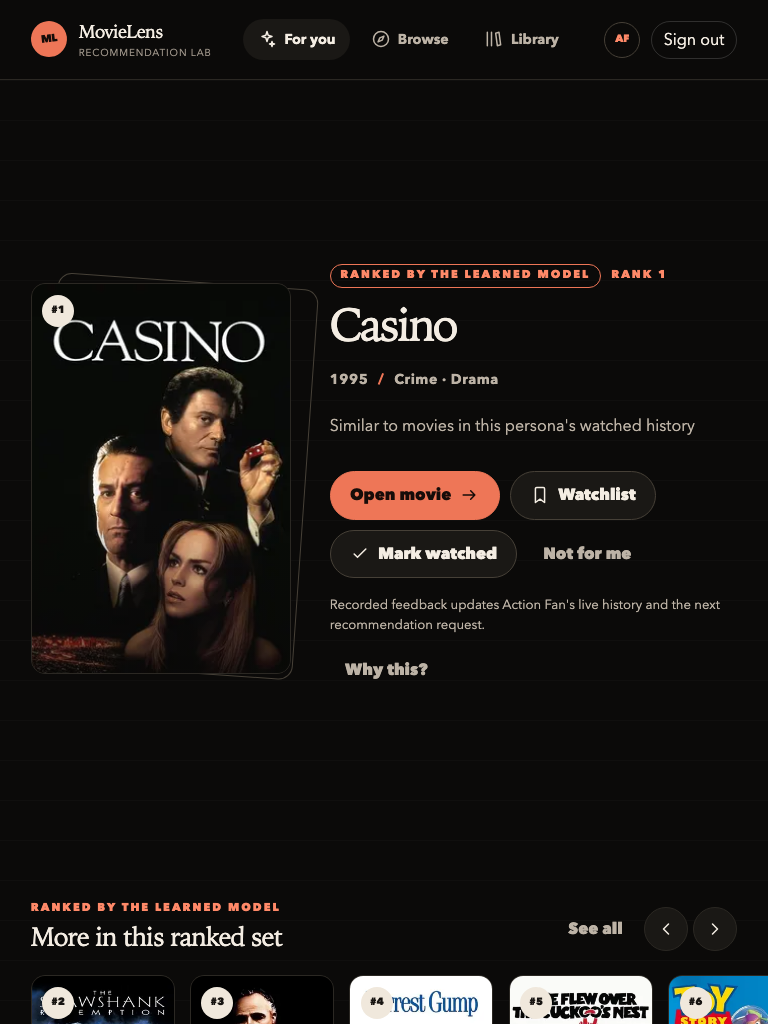
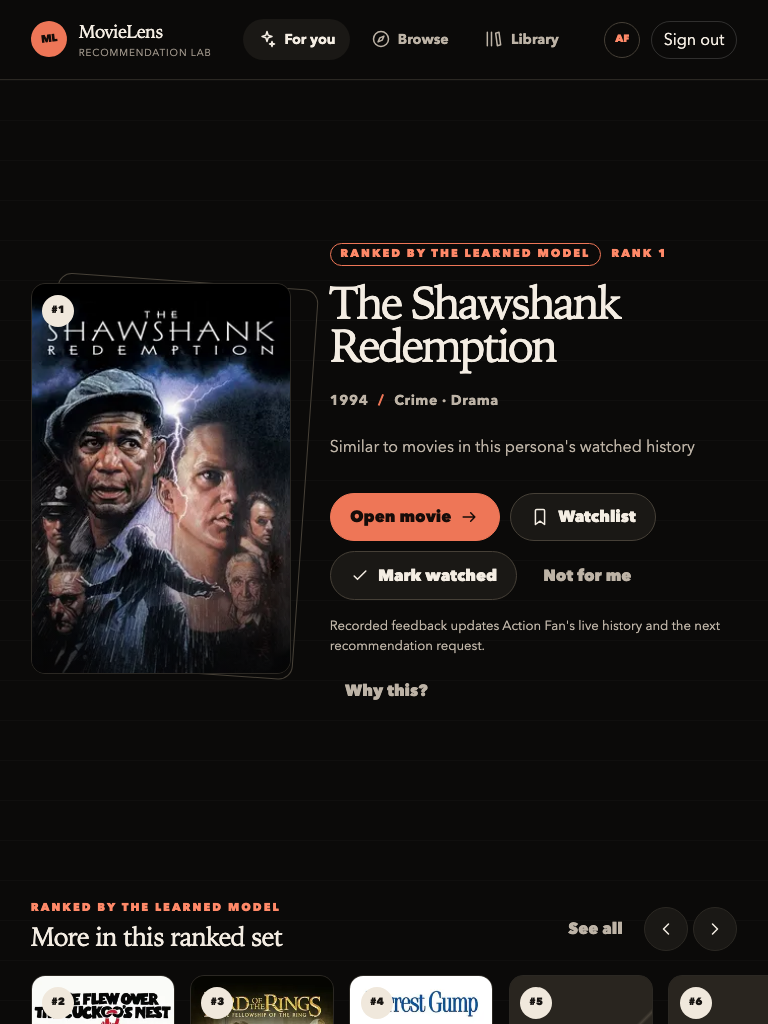
docs(web): re-verify the gate against main after the seed fix, and correct it
PR #64 merged while this branch was in review. It changed which titles every
persona is served and when `learned` may be reported, so a gate re-run that
only described this branch's own base would have been describing a system that
no longer exists. Section 10 was produced a second time against a throwaway
tree combining `origin/main` with this branch's `web/` — the journeys pass
twice, the timing gate passes, and every verdict is unaffected, because the
journey asserts copy against the response rather than against a constant.

The committed evidence is recaptured from that second stack and labelled as
such. Capturing on this branch's base would have committed pictures of
recommendations `main` no longer serves.

One correction, which is the reason for re-running rather than just re-reading.
The performance section attributed Discover's ~380 ms LCP to the warm persona's
top recommendation having no artwork — the existing N1 finding. That is wrong.
and the timing are unchanged across it: 380 ms without a poster, 384 ms with
one. What is measured is that the LCP element is a hydration-time status line
rather than any image; why the poster never becomes a candidate on this route
is now recorded as open rather than as answered. The budget is 2500 ms and both
measurements clear it more than sixfold, so nothing here gates the cutover.

N2 is resolved by #64 and N1 is substantially improved by it without the
[…]

diff --git a/docs/frontend/finish-gate-review.md b/docs/frontend/finish-gate-review.md
@@ -644,19 +644,32 @@ the host.
 | `PLAYWRIGHT_BASE_URL=http://localhost:3001 npm run test:perf` | 5 tests, pass ×3, [numbers below](#107-performance) |
 | `MOVIELENS_DEMO_URL=http://localhost:3001 npm run evidence:bundle7d` | 10 captures, [`evidence/bundle-7d/`](evidence/bundle-7d/README.md) |
 
-Seeded state at capture time, read from the API in the browser's own session —
-unchanged from the 7A run, which is what makes the two evidence sets
-comparable:
+Everything above was run twice over, against two stacks, because `main` moved
+under this branch while it was in review — see
+[10.10](#1010-verified-against-main-after-pr-64). Seeded state at capture time,
+read from the API in the browser's own session, on the second of them:
 
 ```json
 {"name":"item-item-cosine+lightgbm","learned":true,"positive_signal_count":8,
- "threshold":5,"reason":"learned-two-stage: item-item-cosine retrieval over 0
+ "threshold":5,"reason":"learned-two-stage: item-item-cosine retrieval over 8
  positive seeds, ranked by demo-lgbm-v1","score_scale":"lightgbm-rank-score",
  "filter_policy":"watched-and-dismissed-excluded-v1","excluded_count":8}
 ```
 
-CI has not run this branch at the time of writing. Everything above is local;
-the CI columns are what the PR's checks will fill in.
+That is [PR #64](https://github.com/kudratsingh/MovieLens-RecSys/pull/64)
+visible in the response: `over 8 positive seeds` where the 7A run and this
+branch's own first run both read `over 0 positive seeds`. It resolves
+[N2](#n2-learned-serving-reports-zero-positive-seeds), and it changes which
+titles every persona is served — which is why the committed evidence was
+recaptured against it.
+
+**CI on this branch: all eight checks pass** —
+[run 32530254885](https://github.com/kudratsingh/MovieLens-RecSys/actions/runs/32530254885):
+`frontend` (the visual and accessibility gate, including the front door added
+below), `browser-auth-e2e` (the service-backed journey and 7b's browser
+timing), `demo-compose`, `feature-parity`, `lint`, `synthetic-load-smoke`,
+`tenant-isolation`, and `test`. That run is of the branch as pushed, before
+#64.
 
 ### 10.3 Blocking items
 
@@ -730,7 +743,7 @@ Protocol unchanged: 390×844, first stable render, three questions.
 
 | Question | Answer |
 |---|---|
-| What is this? | A movie recommender. A poster, `Casino`, `1995 / Crime · Drama`, and one line of reason. |
+| What is this? | A movie recommender. A poster, `The Shawshank Redemption`, `1994 / Crime · Drama`, and one line of reason. |
 | Is it for you? | Yes — `Similar to movies in this persona's watched history`, with the persona named in the shell separately from the signed-in actor. |
 | What should you do first? | `Open movie`, the one filled button on the screen. |
 
@@ -759,28 +772,41 @@ throttle), three runs, all passing. Representative run:
 
 Discover's LCP moved from the 120 ms recorded in [§5](#performance-gate--pass-carried-from-7b)
 to a reproducible 380–396 ms, and that deserved an explanation rather than a
-shrug. It is not the cutover. Measured directly, the route emits two LCP
-candidates for the warm persona: the server-rendered `h1` at 52 ms — which at
-that moment still holds the placeholder `Finding a strong first pick…` — and
-then the route status line at 376 ms, which only exists after hydration and is
-larger. The primary movie's poster never becomes a candidate **because that
-recommendation has no artwork**, which is exactly
-[N1](#n1-the-first-learned-recommendation-has-no-poster). Loading the same
-route for Cold Start, whose top pick does have a poster, gives an `IMG` LCP
-element at 88 ms.
+shrug.
 
-So N1 is not only a cosmetic finding: on the warm persona it moves the LCP
-element off the image and onto a hydration-time paragraph, which makes the
-number bimodal depending on catalog coverage. The enforced budget is 2500 ms
-and both modes clear it by a wide margin, so this is recorded rather than
-gating. Ruled out along the way: the footer link added to the shell is not
-prefetched (measured — zero `/legacy` requests during the measurement) and is
-below the fold, so it is not an LCP candidate.
+**What is measured.** The route emits two LCP candidates for the warm persona:
+the server-rendered `h1` at ~72 ms — which at that moment still holds the
+placeholder `Finding a strong first pick…` — and then the route status line at
+~380 ms, which only exists after hydration and is the larger of the two
+(12617 px² against 10980). The primary movie's poster is never among the
+candidates.
+
+**What is ruled out.** Not the cutover: the only change this PR makes to
+Discover's document is a footer link that sits below the fold and is not
+prefetched — measured, zero `/legacy` requests during the measurement window.
+Not catalog coverage either, which was this review's first guess and was wrong:
+[N1](#n1-the-first-learned-recommendation-has-no-poster) meant the warm
+persona's top pick had no artwork before #64 and does have artwork after it
+(`The Shawshank Redemption`, `Get Shorty`), and the LCP element and timing are
+unchanged across that — 380 ms without a poster, 384 ms with one. The guess was
+made plausible by a Cold Start measurement that did produce an `IMG` LCP at
+88 ms, and it does not survive the second stack.
+
+**What is open.** Why the featured poster never becomes an LCP candidate on
+this route, when it does on Quick Picks and Cold Start's Discover. Recorded as
+a follow-up rather than answered here: the enforced budget is 2500 ms, both
+measurements clear it by more than six times, and CLS is 0.0000, so nothing
+about this gates the cutover. It is written down because a route whose LCP
+element is a hydration-time paragraph will report hydration cost as paint cost
+for as long as that is true, and the next person to read a 380 ms number should
+know that is what it is.
 
 The direct-API p99 gate and the page-shaped load budgets are unchanged by this
-PR and were not re-measured; `synthetic-load-smoke` still owns them. Rate
-limiting is still recorded as not implemented, still non-blocking here, and
-still needs the decision [§5](#performance-gate--pass-carried-from-7b)
+PR and were not re-measured; `synthetic-load-smoke` still owns them, and it
+passed on this branch.
+
+Rate limiting is still recorded as not implemented, still non-blocking here,
+and still needs the decision [§5](#performance-gate--pass-carried-from-7b)
 describes.
 
 ### 10.8 What the owner must run to convert this verdict
@@ -814,9 +840,24 @@ findings below.
 
 ### 10.9 Findings
 
-Carried from [§6](#6-non-blocking-findings): N1 (now with a measured
-performance consequence — see [10.7](#107-performance)), N2, N3, N4, N5. All
-still non-blocking, none of them touched by this PR.
+Carried from [§6](#6-non-blocking-findings): N3, N4, and N5 — all still
+non-blocking, none of them touched by this PR.
+
+[N2](#n2-learned-serving-reports-zero-positive-seeds) is **resolved** by
+[PR #64](https://github.com/kudratsingh/MovieLens-RecSys/pull/64), which found
+the seeds were being dropped before retrieval. The response now reads `over 8
+positive seeds`, and a retrieval no seed reached is labelled
+`unseeded-retrieval` with `learned: false` rather than borrowing the learned
+label — which is the backend making the same commitment the frontend's
+truthfulness criterion makes.
+
+[N1](#n1-the-first-learned-recommendation-has-no-poster) is **substantially
+improved** by the same PR rather than by any coverage work: the personas are
+now served titles that do carry artwork, so the first learned recommendation
+has a poster. The underlying coverage gap the finding names — 24 of 120
+reviewed titles with complete poster metadata — is unchanged, so a different
+persona or a different ranking can still land on the fallback. Recorded as
+improved, not closed.
 
 #### N6. The product has no persona picker
 
@@ -849,7 +890,49 @@ made here: it changes the cascade under every route, and a cutover PR that is
 also re-running the finish gate is the wrong place to take that risk. Recorded
 as a follow-up.
 
-### 10.10 Re-running this section
+### 10.10 Verified against `main` after PR #64
+
+`main` moved while this branch was in review:
+[PR #64](https://github.com/kudratsingh/MovieLens-RecSys/pull/64) changed which
+titles every persona is served and when `learned` may be reported. A gate
+re-run that only described the branch's own base would have been describing a
+system that no longer exists, so this section was produced twice.
+
+**Run one** — the branch as pushed, on `25807b2`. All commands in
+[10.2](#102-what-was-run), plus CI's eight green checks.
+
+**Run two** — a throwaway verification tree combining `origin/main` at
+`fb459dc` (which includes #64) with this branch's `web/`, which is what this
+branch becomes once the owner rebases it. Built and seeded as its own Compose
+stack, then:
+
+| Command | Result |
+|---|---|
+| `PLAYWRIGHT_BASE_URL=http://localhost:3001 npm run test:e2e` | 7 tests, pass ×2 (20.8 s, 22.2 s) |
+| `PLAYWRIGHT_BASE_URL=http://localhost:3001 npm run test:perf` | 5 tests, pass |
+| `MOVIELENS_DEMO_URL=http://localhost:3001 npm run evidence:bundle7d` | 10 captures |
+
+Nothing in the cutover depends on which policy the router chose, and the run
+confirms it: the journey asserts copy against the response rather than against
+a constant, so a stricter `learned` rule and a different ranked set change what
+the assertions read without changing whether they hold. Every verdict in
+[10.4](#104-criteria) is unaffected.
+
+**The committed evidence is from run two.** It is labelled that way in
+[`evidence/bundle-7d/README.md`](evidence/bundle-7d/README.md), and it matters:
+capturing this branch on its own base would have committed pictures of
+recommendations that `main` no longer serves. Re-running
+`npm run evidence:bundle7d` after the rebase reproduces them; running it on the
+branch before the rebase does not.
+
+**One thing the owner will hit on the rebase.** #64 also added a bullet to
+`CLAUDE.md` immediately above `Remaining Phase 3 — product track`, and this
+branch adds its own bullet in the same place. Keep both, in either order. #64's
+other documentation change — the `Resolved in PR #64` line under
+[N2](#n2-learned-serving-reports-zero-positive-seeds) — is in a region this
+branch does not touch.
+
+### 10.11 Re-running this section
 
 ```bash
 # Service-backed

diff --git a/CLAUDE.md b/CLAUDE.md
@@ -348,7 +348,7 @@ Serving, auth, multi-tenancy, feature store, and the synthetic-load harness. The
 - ✅ **Page-shaped load budgets and browser timing** (Bundle 7b) — `synthetic/load/pages.js` models each route's real fan-out, cursor continuation, Library read, mutation-plus-immediate-read, and Quick Picks action sequence as tagged per-step k6 workloads with measured p95/p99 budgets in a separate thresholds module (the pinned recommendation gate is untouched); `web/tests/perf/` measures LCP, CLS, and time-to-visible-acknowledgement separately in a real browser on the pinned mobile profile and asserts the structural layout promises; `synthetic/load/reliability.py` proves request-id traceability into the audit row, the auth boundary, dependency provenance, bounded pages, cursor rejection, and degraded-metadata operation, and records that rate limiting is not implemented. Both suites follow the persona ownership table the browser journeys keep in `web/tests/e2e/browser-auth.spec.ts`, undo every write, and refuse to run — or to finish — if anything touched the cold-start persona. Page correctness, browser CLS, LCP, and the structural claims are enforced in CI; the per-step latency budgets and the acknowledgement budget are advisory until runner data exists, with the promotion rule written into ADR 0010's 2026-08-21 page-shaped note.
 - ✅ **Frontend finish gate — HOLD** (PR 7a, `docs/frontend/finish-gate-review.md`) — the handoff's ten-step journey now runs end to end against the seeded Compose stack with `DEV_AUTH_BYPASS=false` (`web/tests/e2e/finish-gate-journey.spec.ts`, in the serialized `browser-auth-e2e` set) and the visual/accessibility gate covers the named state matrix at 390/768/1440 plus a 320px sweep (`web/e2e/finish-gate.spec.ts`, in the `frontend` job); the written review records **HOLD** on three cutover items — `/` still serves the pre-redesign dashboard and its static `Candidate policy: Popularity baseline` panel contradicts the `item-item-cosine+lightgbm` policy the same session's API reports, `/discover` has no inbound link from any surface, and Browse and movie detail run a second shell without the contracted mobile bottom navigation — while every criterion applied to the five product routes themselves passes.
 - ✅ **Item-item retrieval seeds from watched history again** (PR #64) — the exclusion set the coordinator sends the sidecar necessarily contains the user's own watched titles, and `CandidateIndex.retrieve` was using it to filter the seed set, so every warm persona was in fact served the index's popularity fill scored by LightGBM while the response reported `learned: true` over "0 positive seeds" (finish-gate finding N2); dismissals now travel on their own `dismissed_movie_ids` input as the only signal that may drop a seed, `seed_count` reports the seeds retrieval actually used rather than the ones offered, and a retrieval no seed reached is reported as `unseeded-retrieval` / `popularity-fill+lightgbm` with `learned: false` instead of borrowing the learned label.
-- ✅ **Frontend cutover — the product is the front door** (PR #65) — `/` serves the movie-discovery product to a signed-in viewer and the sign-in door to everyone else; the pre-redesign dashboard lives only at `/legacy`, labelled as the retained rollback, and its serving-contract panel reports the `serving_policy` the response carried instead of the `Popularity baseline` constant that contradicted it; every primary navigation points at `/discover`; and Browse, movie detail, and Library render the one shared `AppShell`, so the two parallel headers are deleted and the contracted mobile navigation and resolved persona name belong to the product rather than to three routes out of five. The re-run gate (`docs/frontend/finish-gate-review.md` §10) records **all seven criteria passing and the three blocking items cleared** — the verdict stays **HOLD only because moderated sessions with real participants (4–5 viewers, 3–4 technical reviewers) are still owed**, which is not something a reviewer can substitute for. Putting `/` into the accessibility gate for the first time found three defects on the signed-out door — a 1.31:1 primary-action label, a 2.42:1 note, and a 320px overflow — all fixed here; the label was structural, since `button { color: inherit }` is unlayered and out-ranks every Tailwind utility.
+- ✅ **Frontend cutover — the product is the front door** (PR #65) — `/` serves the movie-discovery product to a signed-in viewer and the sign-in door to everyone else; the pre-redesign dashboard lives only at `/legacy`, labelled as the retained rollback, and its serving-contract panel reports the `serving_policy` the response carried instead of the `Popularity baseline` constant that contradicted it; every primary navigation points at `/discover`; and Browse, movie detail, and Library render the one shared `AppShell`, so the two parallel headers are deleted and the contracted mobile navigation and resolved persona name belong to the product rather than to three routes out of five. The re-run gate (`docs/frontend/finish-gate-review.md` §10) — run twice, once on the branch's own base and once against a tree carrying PR #64, since that landed mid-review and changed which titles every persona is served — records **all seven criteria passing and the three blocking items cleared** — the verdict stays **HOLD only because moderated sessions with real participants (4–5 viewers, 3–4 technical reviewers) are still owed**, which is not something a reviewer can substitute for. Putting `/` into the accessibility gate for the first time found three defects on the signed-out door — a 1.31:1 primary-action label, a 2.42:1 note, and a 320px overflow — all fixed here; the label was structural, since `button { color: inherit }` is unlayered and out-ranks every Tailwind utility.
 - ⏳ **Remaining Phase 3 — product track (ADR 0012, `docs/frontend/implementation-plan.md`)** — (a) the scalable catalog + movie-detail APIs; (b) retiring `/legacy`, which now waits only on a participant-backed PASS (the cutover itself landed — see the bullet above); and (c) `/me` subject-to-profile ownership beyond explicit portfolio persona mode.
 - ⏳ **Remaining Phase 3 — platform track** — (e) `synthetic/cold_start/` cohorts per ADR 0011, plus the `EvalResult.synthetic_cold_slices` harness extension and per-bucket MLflow metrics; (f) the ranker training path still builds features with `FeatureIndex` rather than Feast's `get_historical_features` as ADR 0009 specifies — offline/online parity is proven on the served snapshot, not yet on training rows; (g) per-tenant champion model version, quotas, and A/B seed columns on `public.tenants` — the tenant router currently resolves only id, display name, and Redis prefix, and the model sidecar is pinned to one tenant via `MODEL_TENANT_ID`; (h) generic request-audit coverage for authenticated non-prediction endpoints (the audit middleware matches only `/users/{id}/recommendations`; ADR 0012 allows a best-effort/queued policy there only once the durability tradeoff is written down); (i) `docker-compose.{dev,staging,prod}.yml` with `make up-<env>` targets.
 

diff --git a/docs/frontend/evidence/bundle-7d/README.md b/docs/frontend/evidence/bundle-7d/README.md
@@ -11,6 +11,17 @@ catalog snapshot, the feature and model servers, and the web BFF. Nothing here
 needed failure injection, because none of these is a state a healthy stack
 cannot be asked to hold still in.
 
+**Which tree these were captured from, because it is not this branch alone.**
+[PR #64](https://github.com/kudratsingh/MovieLens-RecSys/pull/64) merged to
+`main` while this branch was in review, and it changed which titles every
+persona is served. These images come from a stack built from `origin/main` at
+`fb459dc` — #64 included — plus this branch's `web/`, which is what this branch
+becomes once it is rebased. Capturing on the branch's own base would have
+committed pictures of recommendations `main` no longer serves. Running the
+command below after the rebase reproduces these; running it before the rebase
+does not. The reasoning is in the review's
+[§10.10](../../finish-gate-review.md#1010-verified-against-main-after-pr-64).
+
 ## Capture command
 
 ```bash
@@ -29,8 +40,8 @@ reader to trust the picture.
 | Surface | Files | What it shows |
 |---|---|---|
 | Sign-in door | `sign-in-door-{mobile,desktop}` | The only thing an unauthenticated visitor reaches, rebuilt on the product's design tokens after the accessibility gate found two contrast failures and a 320px overflow on it |
-| Front door, signed in | `landing-after-sign-in-{mobile,tablet,desktop}` | `/` now answers with the movie-discovery product. Read against `../bundle-7a/landing-after-sign-in-*`, which is the dashboard it replaces — that pair is the whole of B1 |
-| Legacy dashboard | `legacy-dashboard-{mobile,desktop}` | The pre-redesign dashboard in its new home: labelled as legacy, linked back to the product, and reporting the serving policy the response carried instead of `Candidate policy: Popularity baseline` |
+| Front door, signed in | `landing-after-sign-in-{mobile,tablet,desktop}` | `/` now answers with the movie-discovery product — `The Shawshank Redemption`, ranked by the learned model, with one filled action. Read against `../bundle-7a/landing-after-sign-in-*`, which is the dashboard it replaces — that pair is the whole of B1 |
+| Legacy dashboard | `legacy-dashboard-{mobile,desktop}` | The pre-redesign dashboard in its new home: labelled as legacy, linked back to the product, and reporting the serving policy the response carried — `item-item-cosine+lightgbm`, learned, `over 8 positive seeds` — instead of `Candidate policy: Popularity baseline`. Its `Explore` button is also readable again; see the review's N7 |
 | Browse on the product shell | `browse-shell-mobile` | The bottom navigation the design contract requires for the three primary routes, on the route that had no mobile navigation at all |
 | Movie detail on the product shell | `movie-detail-shell-mobile` | The same, plus `Exploring as` a resolved persona name where the route-owned header printed `Exploring as persona 900000101` |
 | Library on the product shell | `library-shell-mobile` | Library ran a third header of its own; it is on the shared shell now, so the persona wording matches Discover's |
